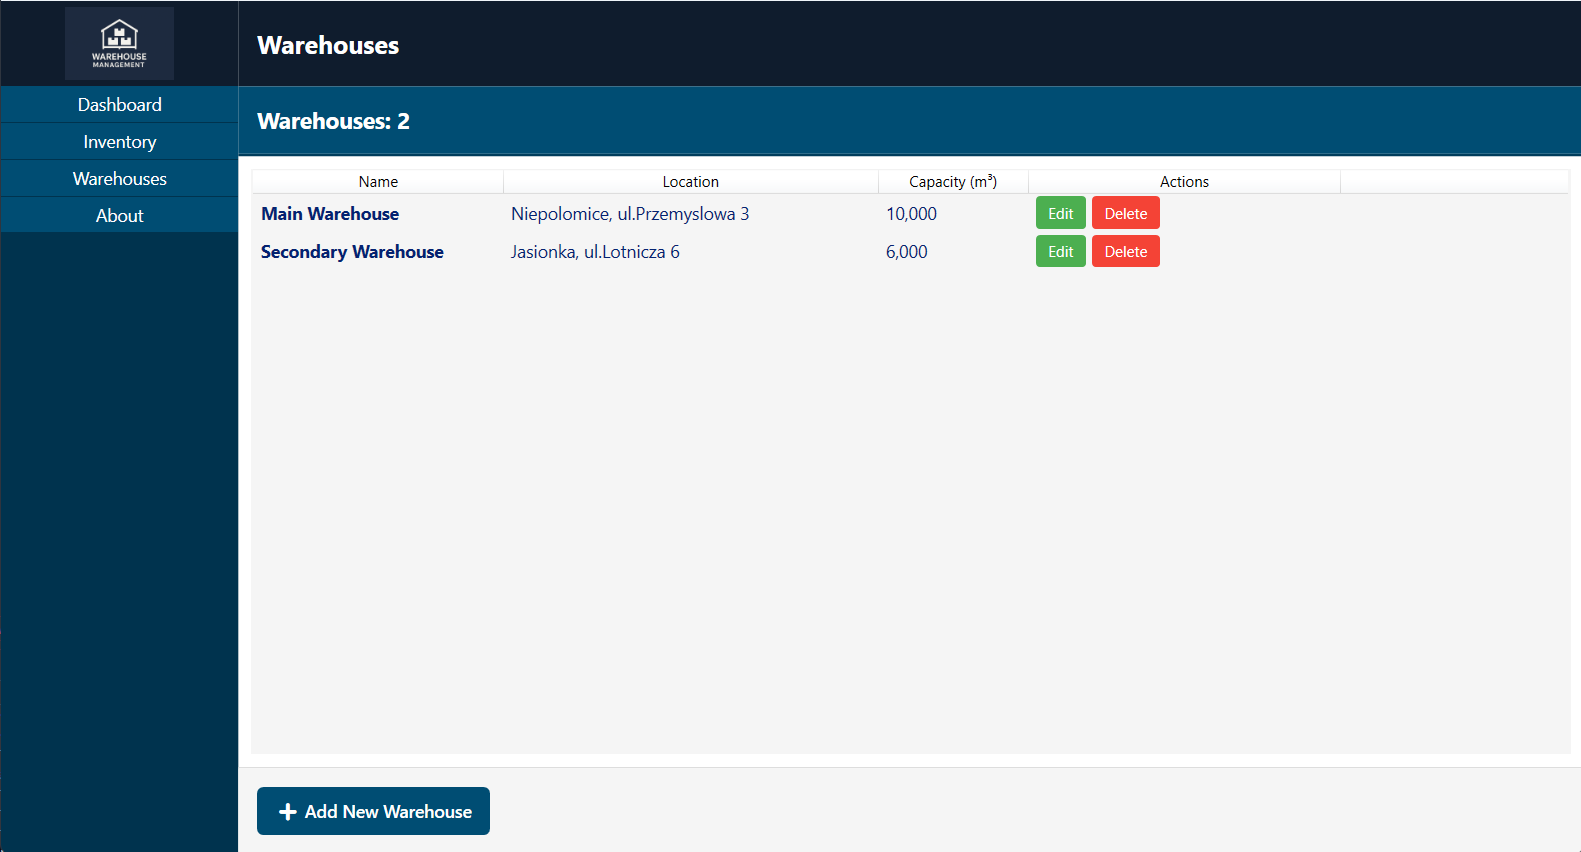
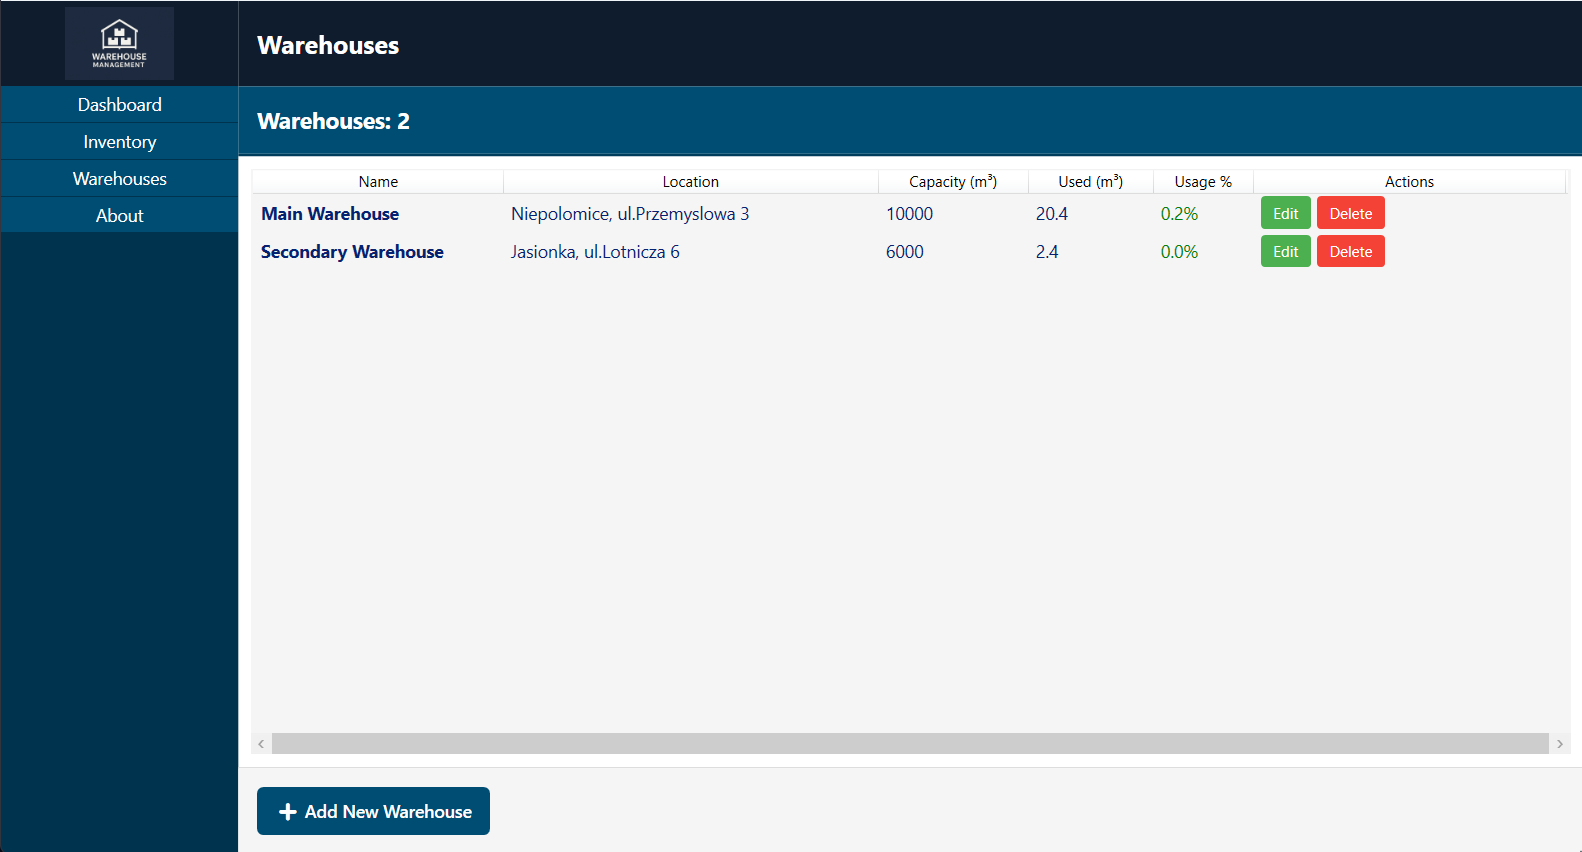
Add warehouse space utilization metrics and UI indicators

diff --git a/WarehouseManagerApp/Views/Controls/WarehousesList.xaml b/WarehouseManagerApp/Views/Controls/WarehousesList.xaml
@@ -72,6 +72,46 @@
                         </GridViewColumn.CellTemplate>
                     </GridViewColumn>
 
+                    <GridViewColumn Header="Used (m³)" Width="100">
+                        <GridViewColumn.CellTemplate>
+                            <DataTemplate>
+                                <TextBlock
+                                    FontSize="14"
+                                    HorizontalAlignment="Right"
+                                    Text="{Binding UsedSpaceM3, Mode=OneWay, StringFormat={}{0:F1}}" />
+                            </DataTemplate>
+                        </GridViewColumn.CellTemplate>
+                    </GridViewColumn>
+
+                    <GridViewColumn Header="Usage %" Width="80">
+                        <GridViewColumn.CellTemplate>
+                            <DataTemplate>
+                                <TextBlock
+                                    FontSize="14"
+                                    HorizontalAlignment="Right"
+                                    Text="{Binding UtilizationPercentage, Mode=OneWay, StringFormat={}{0:F1}%}">
+                                    <TextBlock.Style>
+                                        <Style TargetType="TextBlock">
+                                            <Setter Property="Foreground" Value="Green" />
+                                            <Style.Triggers>
+                                                <!-- Near capacity - orange -->
+                                                <DataTrigger Binding="{Binding IsNearCapacity}" Value="True">
+                                                    <Setter Property="Foreground" Value="Orange" />
+                                                    <Setter Property="FontWeight" Value="SemiBold" />
+                                                </DataTrigger>
+                                                <!-- Critical capacity - red -->
+                                                <DataTrigger Binding="{Binding IsCriticalCapacity}" Value="True">
+                                                    <Setter Property="Foreground" Value="Red" />
+                                                    <Setter Property="FontWeight" Value="Bold" />
+                                                </DataTrigger>
+                                            </Style.Triggers>
+                                        </Style>
+                                    </TextBlock.Style>
+                                </TextBlock>
+                            </DataTemplate>
+                        </GridViewColumn.CellTemplate>
+                    </GridViewColumn>
+
                     <GridViewColumn Header="Actions" Width="250">
                         <GridViewColumn.CellTemplate>
                             <DataTemplate>

diff --git a/WarehouseManagerApp/Models/Warehouse.cs b/WarehouseManagerApp/Models/Warehouse.cs
@@ -27,5 +27,16 @@ namespace WarehouseManagerApp.Models
         public int CapacityM3 { get; set; }
 
         public List<Product> Products { get; set; } = new();
+
+        // Calculated properties for space utilization
+        public double UsedSpaceM3 => Products?.Sum(p => p.Quantity * p.VolumePerUnitM3) ?? 0;
+        
+        public double FreeSpaceM3 => CapacityM3 - UsedSpaceM3;
+        
+        public double UtilizationPercentage => CapacityM3 > 0 ? (UsedSpaceM3 / CapacityM3) * 100 : 0;
+        
+        public bool IsNearCapacity => UtilizationPercentage >= 80;
+        
+        public bool IsCriticalCapacity => UtilizationPercentage >= 95;
     }
 }

diff --git a/WarehouseManagerApp/Services/WarehousesService.cs b/WarehouseManagerApp/Services/WarehousesService.cs
@@ -177,6 +177,7 @@ namespace WarehouseManagerApp.Services
             }
 
             _warehousesCache = await _context.Warehouses
+                .Include(w => w.Products) // Include products for space calculations
                 .ToListAsync();
 
             _warehousesCacheTime = DateTime.Now;
